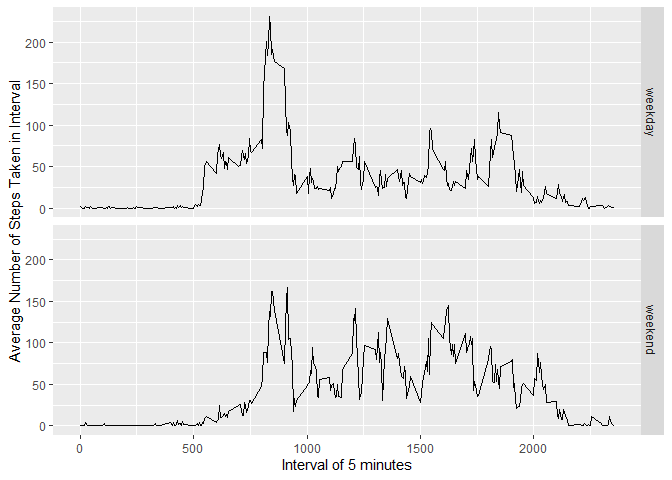
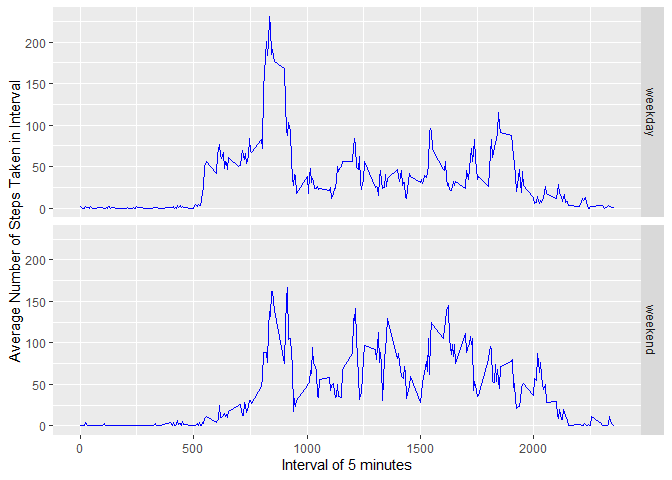
Added comments and fixed headings

diff --git a/PA1_template.html b/PA1_template.html
@@ -170,17 +170,21 @@ pre code {
 
 <div id="loading-and-preprocessing-the-data" class="section level2">
 <h2>Loading and preprocessing the data</h2>
-<pre class="r"><code>unzip(&quot;activity.zip&quot;)         
+<pre class="r"><code>#Unzipping the compressed file and loading the data
+unzip(&quot;activity.zip&quot;)         
 df2 &lt;- read.csv(&quot;./activity.csv&quot;,na.strings = &quot;NA&quot;)</code></pre>
 </div>
 <div id="what-is-mean-total-number-of-steps-taken-per-day" class="section level2">
 <h2>What is mean total number of steps taken per day?</h2>
-<pre class="r"><code>library(ggplot2)
+<pre class="r"><code>library(ggplot2)  #We use ggplot2 as the plotting library here
+
 stepsvar &lt;- tapply(df2$steps, df2$date, FUN=sum,na.rm=TRUE)
+#tapply will sum the steps for every day and assign it to stepsvar 
+
 qplot(stepsvar, binwidth=800, xlab=&quot;Days&quot;,ylab=&quot;Frequency of Total Steps Per Day&quot;,colour=I(&quot;purple&quot;))</code></pre>
[1 lines of base64/hex data omitted]
 <pre class="r"><code>mean_steps &lt;- as.integer(mean(stepsvar))
-median_steps &lt;- median(stepsvar)</code></pre>
+median_steps &lt;- as.integer(median(stepsvar))</code></pre>
 <p>The mean and median of total steps per day are 9354 and 10395 respectively.</p>
 </div>
 <div id="what-is-the-average-daily-activity-pattern" class="section level2">
@@ -198,12 +202,13 @@ ggplot(data=average_data, mapping=aes(x=interval, y=steps)) +
 </div>
 <div id="imputing-missing-values" class="section level2">
 <h2>Imputing missing values</h2>
-<p>There are a number of days/intervals where the number of steps taken is missing,<br />
-it is coded as NA in the original dataset. These missing values may introduce bias into some calculations or summaries of the data.</p>
-<p>Finding the number of missing values</p>
-<pre class="r"><code>sum(is.na(df2))</code></pre>
+<p>There are a number of days/intervals where the number of steps taken is missing, they are coded as NA in the original dataset. These missing values may introduce bias into some calculations or summaries of the data.</p>
+<div id="finding-the-number-of-missing-values" class="section level3">
+<h3>Finding the number of missing values</h3>
+<pre class="r"><code>#the generic function is.na indicates which elements are missing
+sum(is.na(df2))</code></pre>
 <pre><code>## [1] 2304</code></pre>
-<p>We can fill all the missing values with the mean value of that 5 minute interval</p>
+<p>We can fill all the missing values with the mean value of that 5 minute interval.</p>
 <pre class="r"><code>na_fill &lt;- function(steps, interval) {
     mod_df &lt;- NA
     if (!is.na(steps))
@@ -212,21 +217,32 @@ it is coded as NA in the original dataset. These missing values may introduce bi
         mod_df &lt;- (average_data[average_data$interval==interval, &quot;steps&quot;])
     return(mod_df)
 }
+# The function above replaces the NA values with the mean value of that 
+# corresponding interval.
+
 new_df &lt;- df2
+# We use mapply to apply the function to multiple arguments
 new_df$steps &lt;- mapply(na_fill, new_df$steps, new_df$interval)</code></pre>
 <p>Using the new dataset, we again plot the histogram and find the mean and median<br />
 of the total number of steps taken per day.</p>
-<pre class="r"><code>stepsvar2 &lt;- tapply(new_df$steps, new_df$date, FUN=sum)
-qplot(stepsvar2, binwidth=800, xlab=&quot;total number of steps taken each day&quot;)</code></pre>
[1 lines of base64/hex data omitted]
+<pre class="r"><code>#tapply will sum the steps for every day and assign it to stepsvar2 
+stepsvar2 &lt;- tapply(new_df$steps, new_df$date, FUN=sum)
+
+qplot(stepsvar2, binwidth=800, xlab=&quot;Days&quot;,ylab=&quot;Frequency of total steps per 
+      day&quot;,colour=I(&quot;green&quot;))</code></pre>
[1 lines of base64/hex data omitted]
 <pre class="r"><code>mean_steps2 &lt;- as.integer(mean(stepsvar2))
 median_steps2 &lt;- as.integer(median(stepsvar2))</code></pre>
-<p>The mean and median of total steps per day in the modified histogram are 10766 and 10766 respectively. The observation here is that these values differ from those in the first part of the assignment. The impact of imputing missing data is that both the mean and median values are higher relatively. This is because instead of using 0 values for the missing data we are using the mean value.</p>
+<p>The mean and median of total steps per day in the modified histogram are 10766 and 10766 respectively.</p>
+<p>The observation here is that these values differ from those in the first part of the assignment. The impact of imputing missing data is that both the mean and median values are higher relatively. This is because instead of using 0 values for the missing data we are using the mean value.</p>
+</div>
 </div>
 <div id="are-there-differences-in-activity-patterns-between-weekdays-and-weekends" class="section level2">
 <h2>Are there differences in activity patterns between weekdays and weekends?</h2>
 <p>For observing this difference, we need to find the day corresponding to each date measurement.</p>
-<pre class="r"><code>day_helper &lt;- function(date) {
+<pre class="r"><code># the below function takes a date and outputs either weekend or weekday
+# with the help of the weekdays() function in R.
+day_helper &lt;- function(date) {
     day &lt;- weekdays(date)
     foo &lt;- c(&quot;Monday&quot;, &quot;Tuesday&quot;, &quot;Wednesday&quot;, &quot;Thursday&quot;, &quot;Friday&quot;)
     bar &lt;- c(&quot;Saturday&quot;,&quot;Sunday&quot;)
@@ -238,13 +254,17 @@ median_steps2 &lt;- as.integer(median(stepsvar2))</code></pre>
         stop(&quot;invalid date&quot;)
 }
 new_df$date &lt;- as.Date(new_df$date)
+# sapply applies the helper function over the date column of our dataframe
 new_df$day &lt;- sapply(new_df$date, FUN=day_helper)</code></pre>
 <p>We make a time series plot of the 5 minute interval and the average number of<br />
 steps taken, averaged across all weekdays and week-end days.</p>
-<pre class="r"><code>average_data2 &lt;- aggregate(steps ~ interval + day, data=new_df, mean)
-ggplot(average_data2, aes(interval, steps)) + geom_line() + facet_grid(day ~ .) +
+<pre class="r"><code># aggregate function splits the steps day into subset based on type of day
+average_data2 &lt;- aggregate(steps ~ interval + day, data=new_df, mean)
+
+# facet grid forms a matrix of panels defined by row nad column faceting variables.
+ggplot(average_data2, aes(interval, steps)) + geom_line(colour=I(&quot;blue&quot;)) + facet_grid(day ~ .) +
     xlab(&quot;Interval of 5 minutes&quot;)+ ylab(&quot;Average Number of Steps Taken in Interval&quot;)</code></pre>
[2 lines of base64/hex data omitted]
 </div>
 
 

diff --git a/PA1_template.md b/PA1_template.md
@@ -9,6 +9,7 @@ output:
 ## Loading and preprocessing the data
 
 ```r
+#Unzipping the compressed file and loading the data
 unzip("activity.zip")         
 df2 <- read.csv("./activity.csv",na.strings = "NA")
 ```
@@ -16,8 +17,11 @@ df2 <- read.csv("./activity.csv",na.strings = "NA")
 ## What is mean total number of steps taken per day?
 
 ```r
-library(ggplot2)
+library(ggplot2)  #We use ggplot2 as the plotting library here
+
 stepsvar <- tapply(df2$steps, df2$date, FUN=sum,na.rm=TRUE)
+#tapply will sum the steps for every day and assign it to stepsvar 
+
 qplot(stepsvar, binwidth=800, xlab="Days",ylab="Frequency of Total Steps Per Day",colour=I("purple"))
 ```
 
@@ -25,7 +29,7 @@ qplot(stepsvar, binwidth=800, xlab="Days",ylab="Frequency of Total Steps Per Day
 
 ```r
 mean_steps <- as.integer(mean(stepsvar))
-median_steps <- median(stepsvar)
+median_steps <- as.integer(median(stepsvar))
 ```
 The mean and median of total steps per day are 9354 and 10395 respectively.
 
@@ -48,13 +52,14 @@ ggplot(data=average_data, mapping=aes(x=interval, y=steps)) +
 
 ## Imputing missing values
 
-There are a number of days/intervals where the number of steps taken is missing,  
-it is coded as NA in the original dataset. These missing values may introduce
+There are a number of days/intervals where the number of steps taken is missing,
+they are coded as NA in the original dataset. These missing values may introduce
 bias into some calculations or summaries of the data.
 
-Finding the number of missing values
+### Finding the number of missing values
 
 ```r
+#the generic function is.na indicates which elements are missing
 sum(is.na(df2))
 ```
 
@@ -62,7 +67,7 @@ sum(is.na(df2))
 ## [1] 2304
 ```
 
-We can fill all the missing values with the mean value of that 5 minute interval
+We can fill all the missing values with the mean value of that 5 minute interval.
 
 
 ```r
@@ -74,7 +79,11 @@ na_fill <- function(steps, interval) {
         mod_df <- (average_data[average_data$interval==interval, "steps"])
     return(mod_df)
 }
+# The function above replaces the NA values with the mean value of that 
+# corresponding interval.
+
 new_df <- df2
+# We use mapply to apply the function to multiple arguments
 new_df$steps <- mapply(na_fill, new_df$steps, new_df$interval)
 ```
 Using the new dataset, we again plot the histogram and find the mean and median  
@@ -82,8 +91,11 @@ of the total number of steps taken per day.
 
 
 ```r
+#tapply will sum the steps for every day and assign it to stepsvar2 
 stepsvar2 <- tapply(new_df$steps, new_df$date, FUN=sum)
-qplot(stepsvar2, binwidth=800, xlab="total number of steps taken each day")
+
+qplot(stepsvar2, binwidth=800, xlab="Days",ylab="Frequency of total steps per 
+      day",colour=I("green"))
 ```
 
 ![](PA1_template_files/figure-html/meansteps2-1.png)<!-- -->
@@ -93,7 +105,8 @@ mean_steps2 <- as.integer(mean(stepsvar2))
 median_steps2 <- as.integer(median(stepsvar2))
 ```
 The mean and median of total steps per day in the modified histogram are
-10766 and  10766 respectively. 
+10766 and  10766 respectively.  
+
 The observation here is that these values differ from those in the first part
 of the assignment. The impact of imputing missing data is that both the mean
 and median values are higher relatively. This is because instead of using 0
@@ -106,6 +119,8 @@ each date measurement.
 
 
 ```r
+# the below function takes a date and outputs either weekend or weekday
+# with the help of the weekdays() function in R.
 day_helper <- function(date) {
     day <- weekdays(date)
     foo <- c("Monday", "Tuesday", "Wednesday", "Thursday", "Friday")
@@ -118,6 +133,7 @@ day_helper <- function(date) {
         stop("invalid date")
 }
 new_df$date <- as.Date(new_df$date)
+# sapply applies the helper function over the date column of our dataframe
 new_df$day <- sapply(new_df$date, FUN=day_helper)
 ```
 
@@ -125,8 +141,11 @@ We make a time series plot of the 5 minute interval and the average number of
 steps taken, averaged across all weekdays and week-end days.
 
 ```r
+# aggregate function splits the steps day into subset based on type of day
 average_data2 <- aggregate(steps ~ interval + day, data=new_df, mean)
-ggplot(average_data2, aes(interval, steps)) + geom_line() + facet_grid(day ~ .) +
+
+# facet grid forms a matrix of panels defined by row nad column faceting variables.
+ggplot(average_data2, aes(interval, steps)) + geom_line(colour=I("blue")) + facet_grid(day ~ .) +
     xlab("Interval of 5 minutes")+ ylab("Average Number of Steps Taken in Interval")
 ```
 
